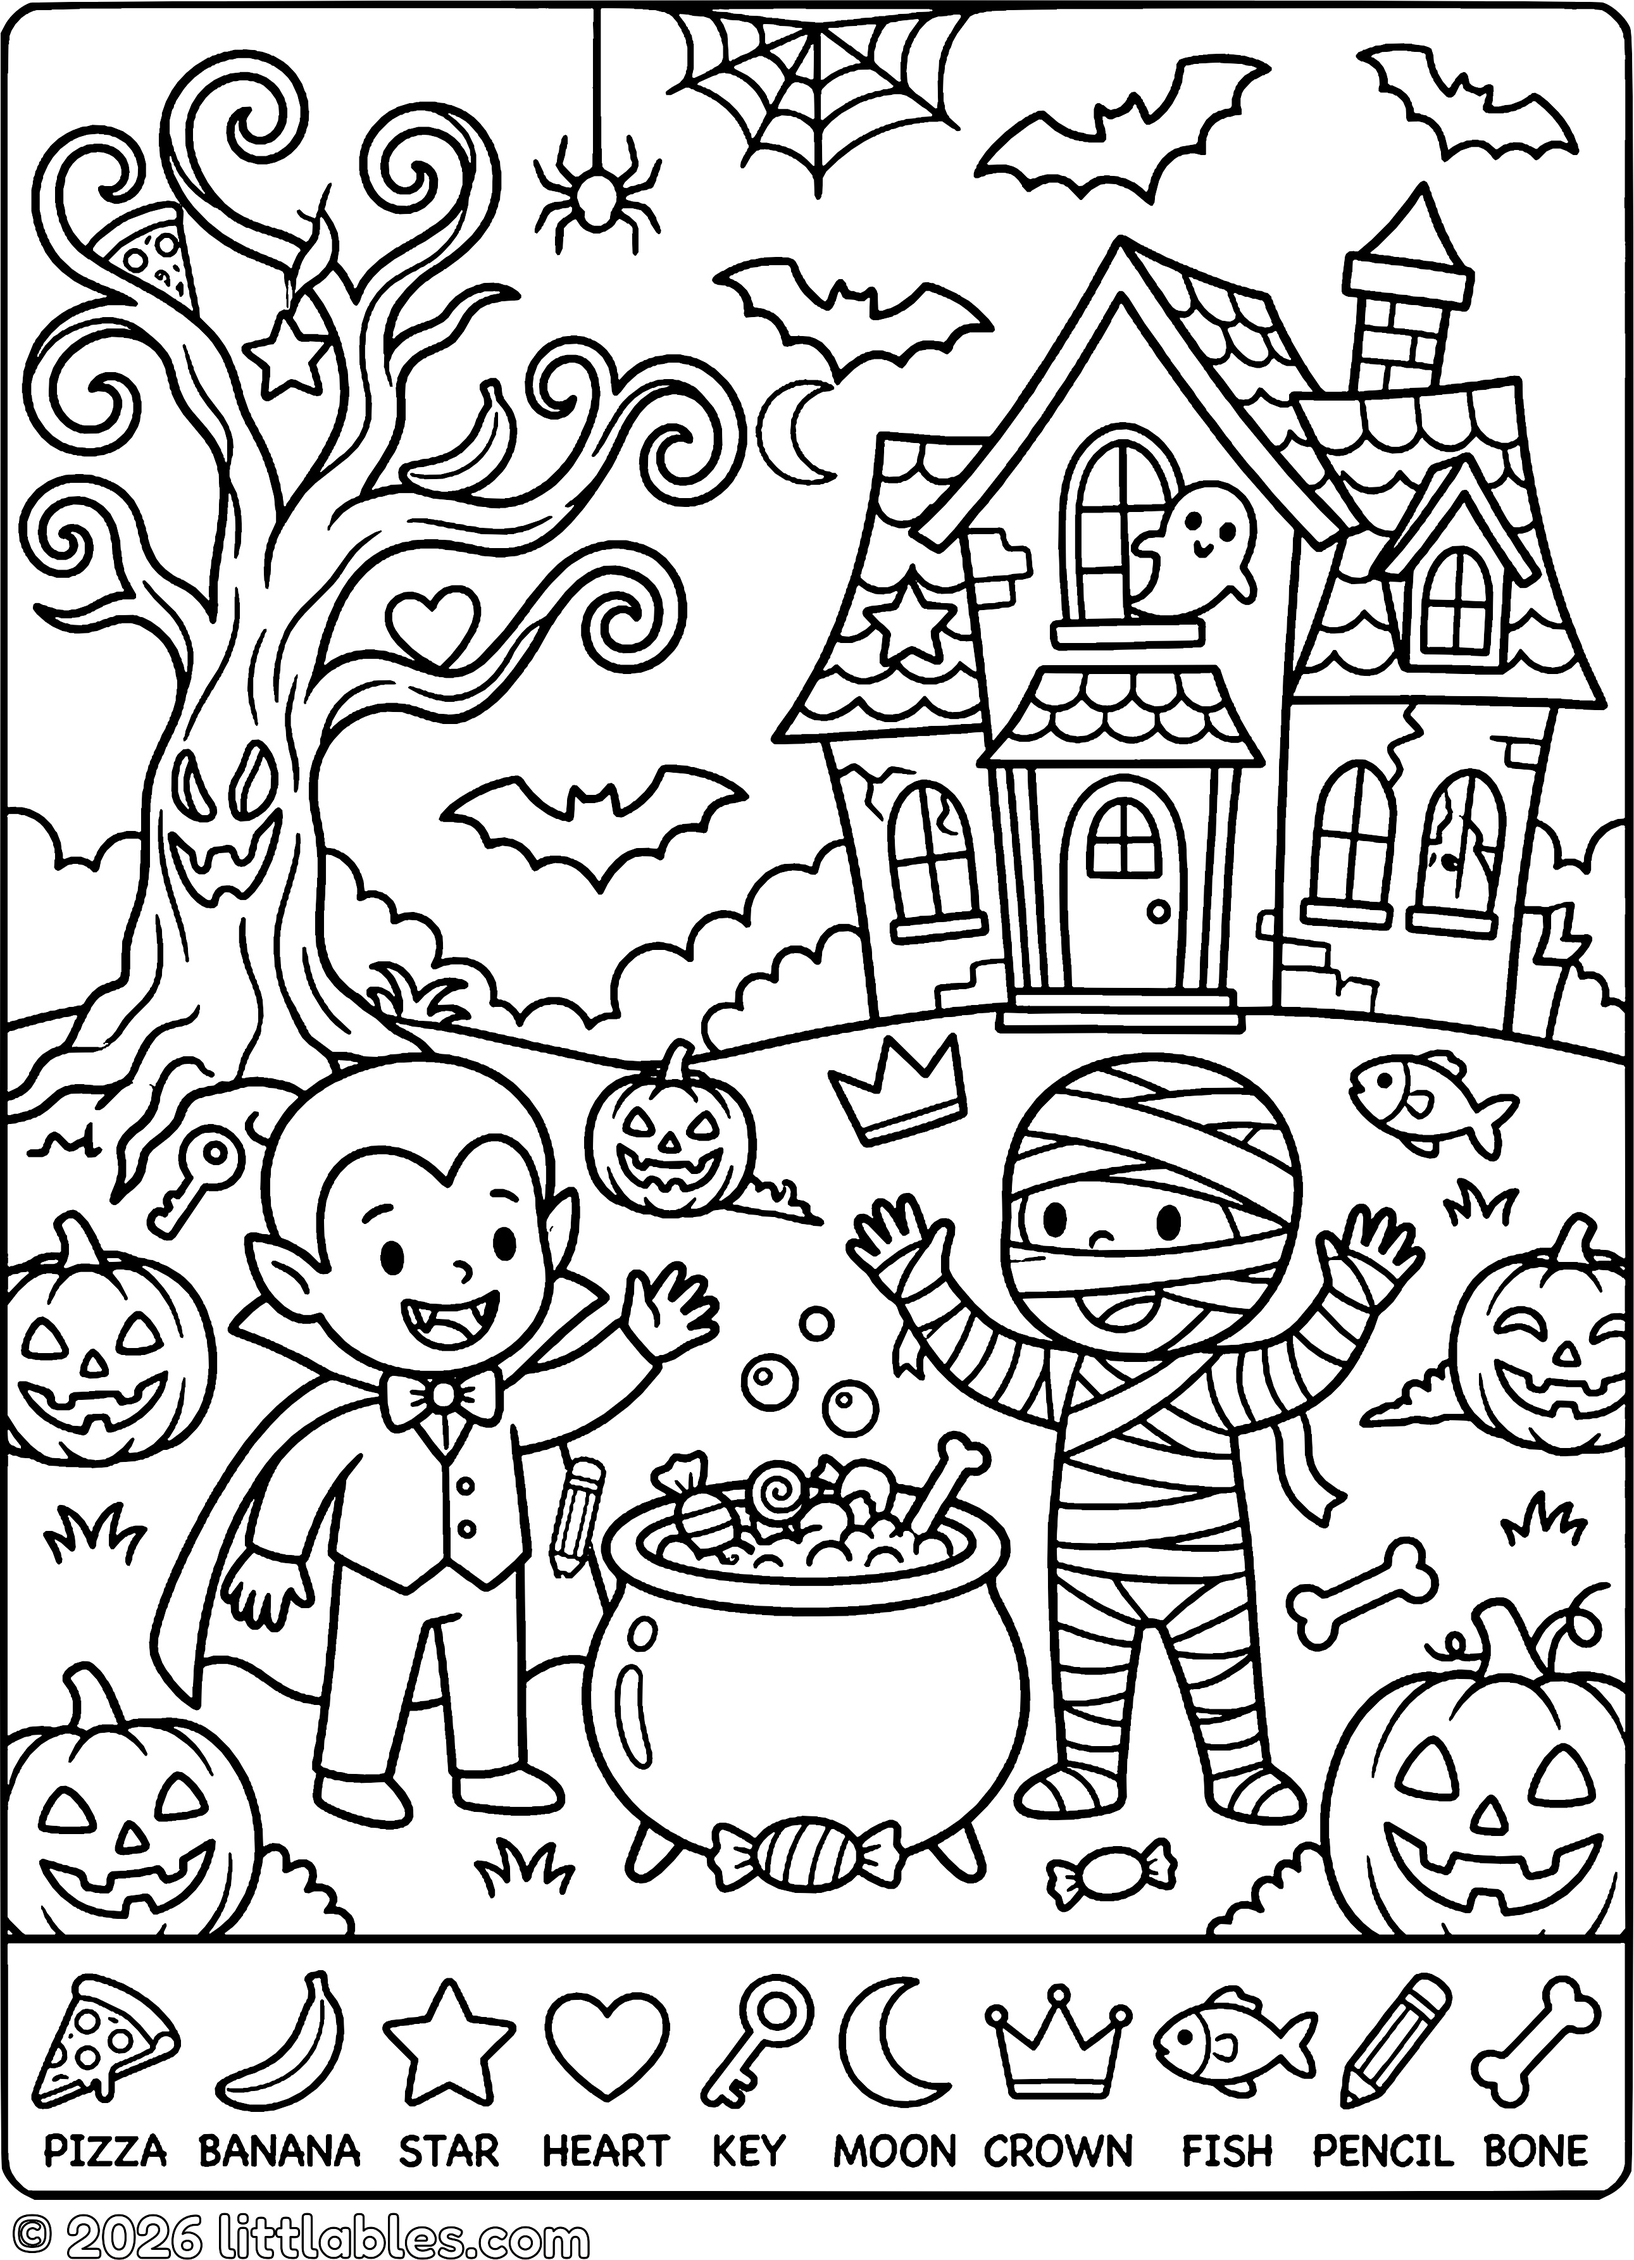
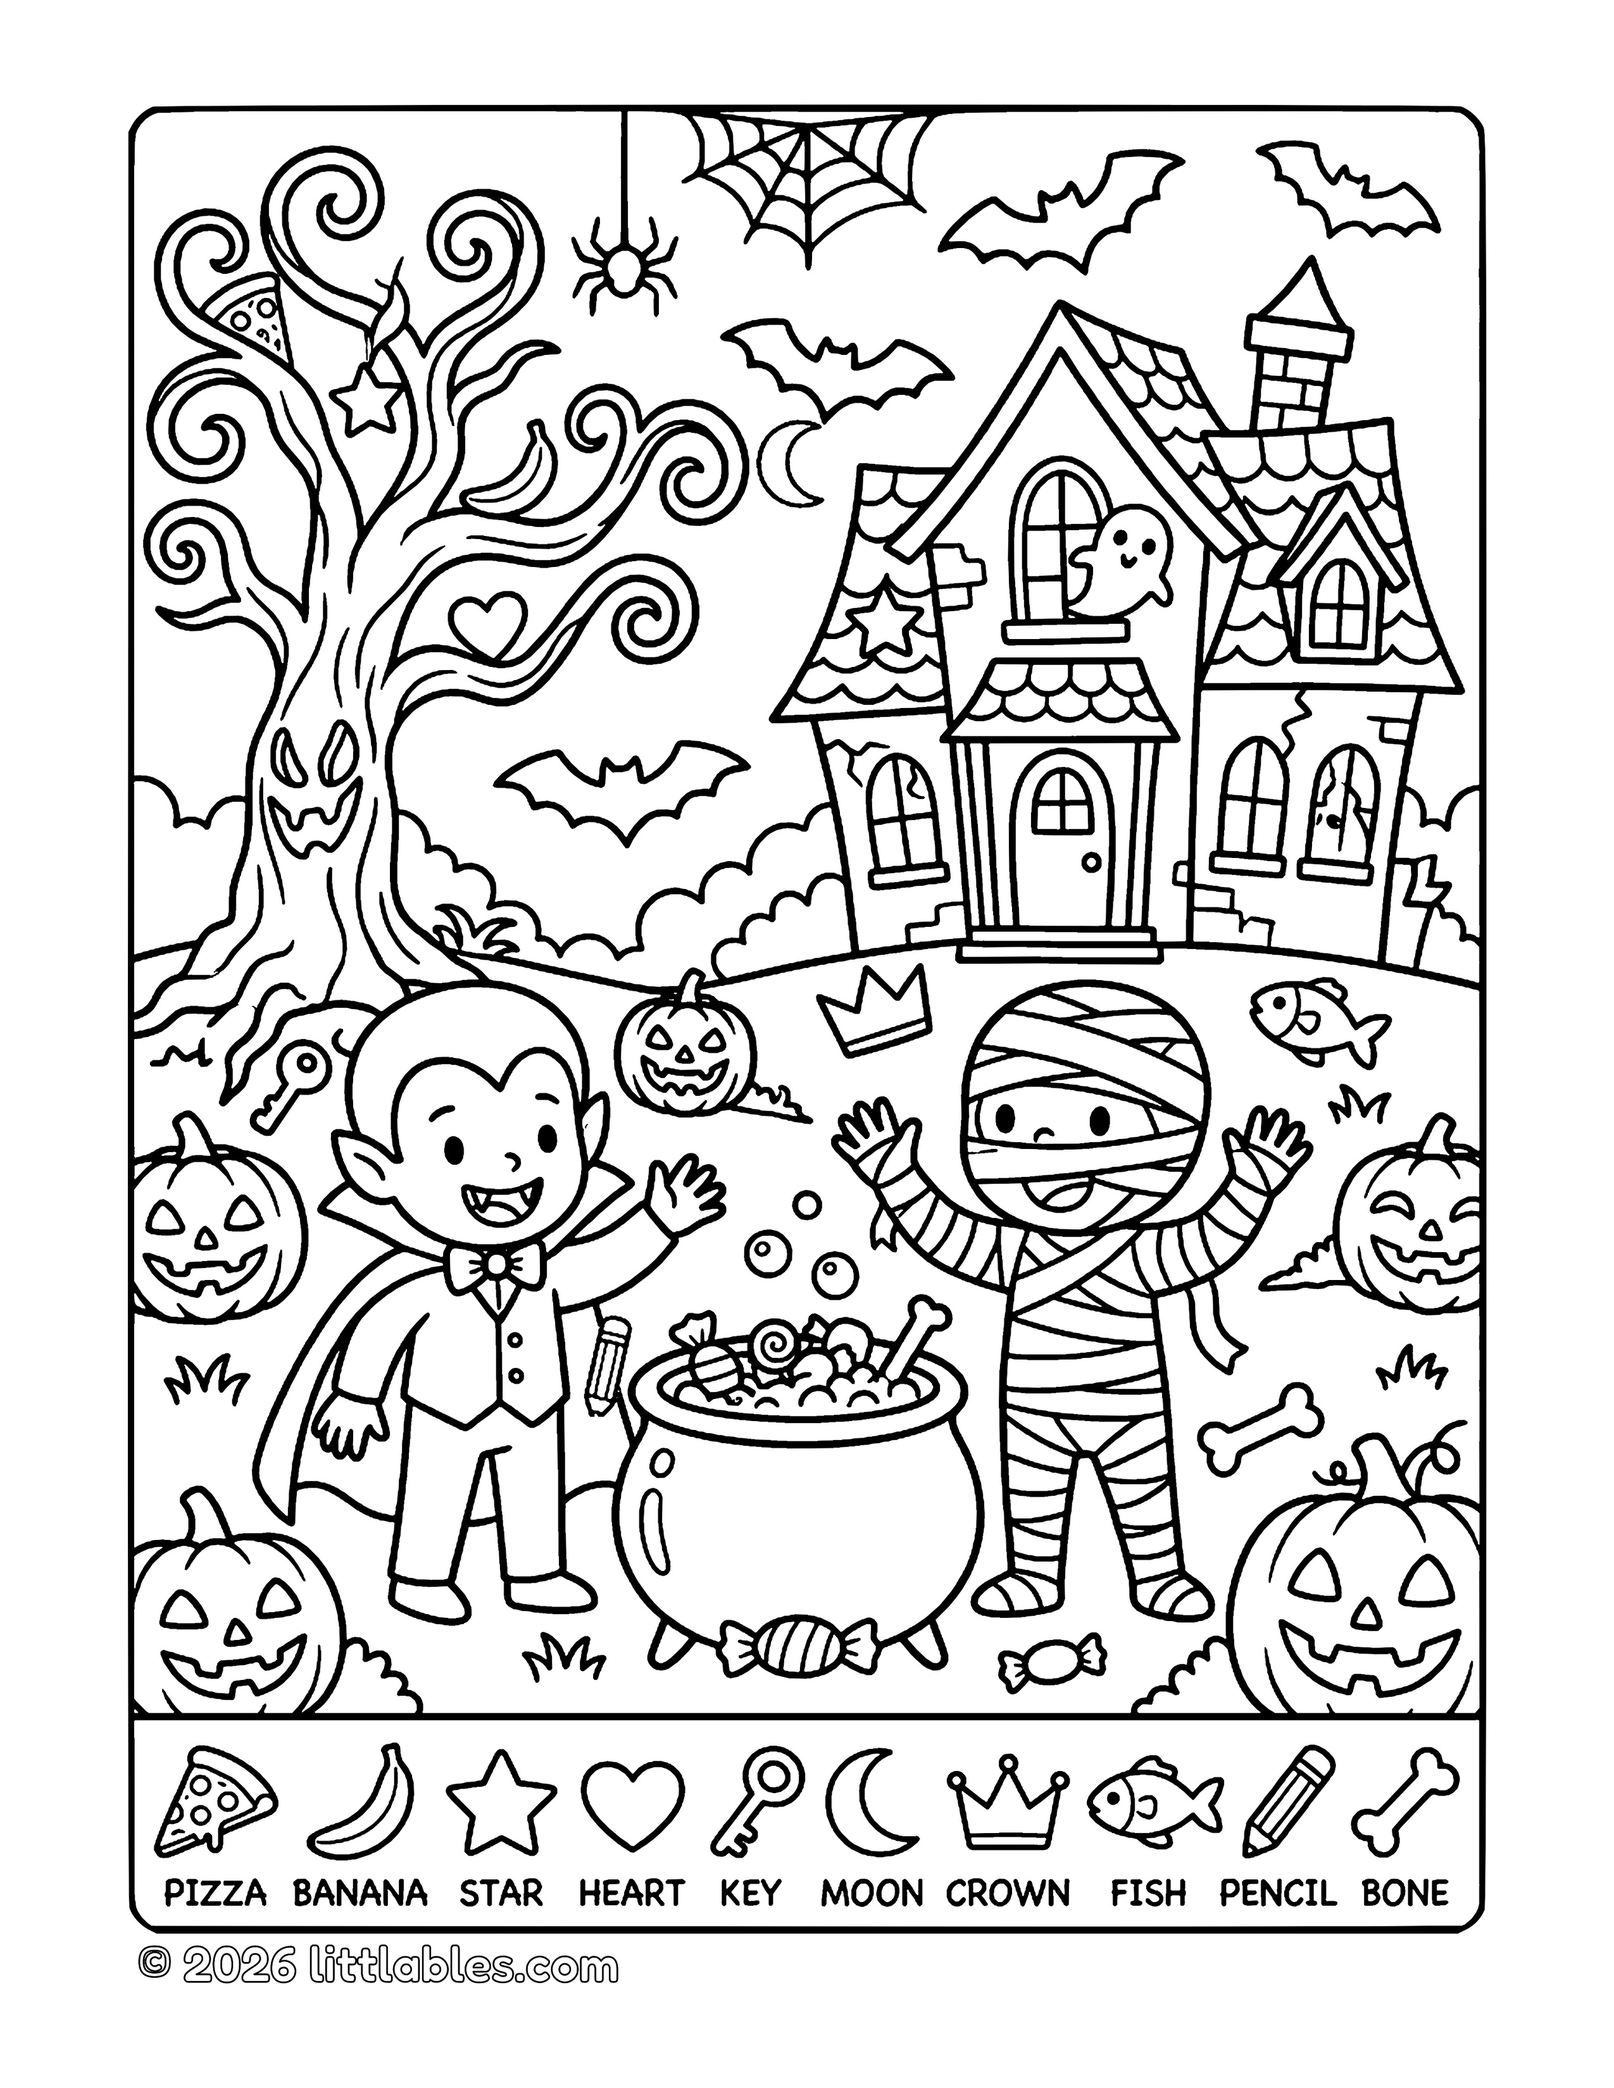
build: fix worksheet generation and formatting
Update ImageMagick configuration to allow PDF processing and standardize SVG-to-PDF conversion to US Letter dimensions with safe margins. Removed redundant PDF reference in the print handler.

diff --git a/src/components/WorksheetsPanel.tsx b/src/components/WorksheetsPanel.tsx
@@ -240,7 +240,6 @@ export const WorksheetsPanel: React.FC = () => {
 
     const escapedTitle = worksheet.title.replace(/</g, '&lt;').replace(/>/g, '&gt;');
     const imgSrc = new URL(worksheet.jpgUrl, window.location.origin).href;
-    const pdfHref = new URL(worksheet.pdfUrl, window.location.origin).href;
 
     const printHtml = `<!DOCTYPE html>
 <html>
@@ -250,114 +249,48 @@ export const WorksheetsPanel: React.FC = () => {
   <title>${escapedTitle}</title>
   <style>
     @page {
-      size: portrait;
-      margin: 0.25in;
+      size: letter portrait;
+      margin: 0;
     }
     * {
       box-sizing: border-box;
     }
     html, body {
-      margin: 0;
-      padding: 0;
-      background: #f4f1ea;
-      font-family: system-ui, -apple-system, BlinkMacSystemFont, 'Segoe UI', Roboto, sans-serif;
-      color: #1f2937;
-    }
-    .print-toolbar {
-      display: flex;
-      align-items: center;
-      justify-content: space-between;
-      gap: 12px;
-      padding: 10px 16px;
+      width: 100%;
+      height: 100%;
+      margin: 0 !important;
+      padding: 0 !important;
       background: #ffffff;
-      border-bottom: 1px solid #e5e7eb;
-      position: sticky;
-      top: 0;
-      z-index: 10;
-    }
-    .print-toolbar-title {
-      font-weight: 700;
-      font-size: 14px;
       overflow: hidden;
-      text-overflow: ellipsis;
-      white-space: nowrap;
-    }
-    .print-toolbar-actions {
-      display: flex;
-      align-items: center;
-      gap: 8px;
-      flex-shrink: 0;
-    }
-    .print-btn {
-      appearance: none;
-      border: 1px solid #dc2626;
-      background: #ef4444;
-      color: #ffffff;
-      font-weight: 700;
-      font-size: 13px;
-      padding: 6px 14px;
-      border-radius: 8px;
-      cursor: pointer;
-      text-decoration: none;
-    }
-    .print-link-btn {
-      appearance: none;
-      border: 1px solid #d1d5db;
-      background: #f9fafb;
-      color: #1f2937;
-      font-weight: 700;
-      font-size: 13px;
-      padding: 6px 12px;
-      border-radius: 8px;
-      cursor: pointer;
-      text-decoration: none;
     }
     .print-page-wrap {
+      width: 100%;
+      height: 100vh;
+      max-height: 10.8in;
+      padding: 0;
+      margin: 0;
       display: flex;
       justify-content: center;
       align-items: center;
-      padding: 16px;
-      min-height: calc(100vh - 52px);
+      overflow: hidden;
+      page-break-inside: avoid;
+      break-inside: avoid;
     }
     img {
-      width: 100%;
-      max-width: 8.5in;
+      width: auto;
       height: auto;
+      max-width: 100%;
+      max-height: 96vh;
       object-fit: contain;
       display: block;
       margin: 0 auto;
       background: #ffffff;
-      box-shadow: 0 4px 20px rgba(0, 0, 0, 0.12);
-      border-radius: 4px;
-    }
-    @media print {
-      html, body {
-        background: #ffffff;
-      }
-      .print-toolbar {
-        display: none !important;
-      }
-      .print-page-wrap {
-        padding: 0;
-        min-height: auto;
-      }
-      img {
-        max-width: 100%;
-        max-height: 98vh;
-        box-shadow: none;
-        border-radius: 0;
-      }
+      page-break-inside: avoid;
+      break-inside: avoid;
     }
   </style>
 </head>
 <body>
-  <div class="print-toolbar">
-    <div class="print-toolbar-title">${escapedTitle}</div>
-    <div class="print-toolbar-actions">
-      <a class="print-link-btn" href="${pdfHref}" download="${worksheet.pdfFilename}">⬇ PDF</a>
-      <button type="button" class="print-btn" onclick="window.print()">🖨 Print</button>
-    </div>
-  </div>
   <div class="print-page-wrap">
     <img id="print-img" src="${imgSrc}" alt="${escapedTitle}" />
   </div>
@@ -371,7 +304,7 @@ export const WorksheetsPanel: React.FC = () => {
         setTimeout(function() {
           window.focus();
           window.print();
-        }, 150);
+        }, 100);
       }
       if (img.complete && img.naturalWidth > 0) {
         triggerPrint();
@@ -383,19 +316,6 @@ export const WorksheetsPanel: React.FC = () => {
 </body>
 </html>`;
 
-    // Open in a new window/tab so the main website is never lost
-    const printWin = window.open('', '_blank');
-    if (printWin) {
-      printWin.document.open();
-      printWin.document.write(printHtml);
-      printWin.document.close();
-      setTimeout(() => {
-        setPrintingId((prev) => (prev === worksheet.id ? null : prev));
-      }, 900);
-      return;
-    }
-
-    // Fallback to hidden iframe only if popup was blocked
     const frame = printFrameRef.current;
     const doc = frame?.contentDocument || frame?.contentWindow?.document;
     if (doc) {
@@ -406,7 +326,7 @@ export const WorksheetsPanel: React.FC = () => {
 
     setTimeout(() => {
       setPrintingId((prev) => (prev === worksheet.id ? null : prev));
-    }, 1200);
+    }, 900);
   };
 
   const handleShareWorksheet = async (
